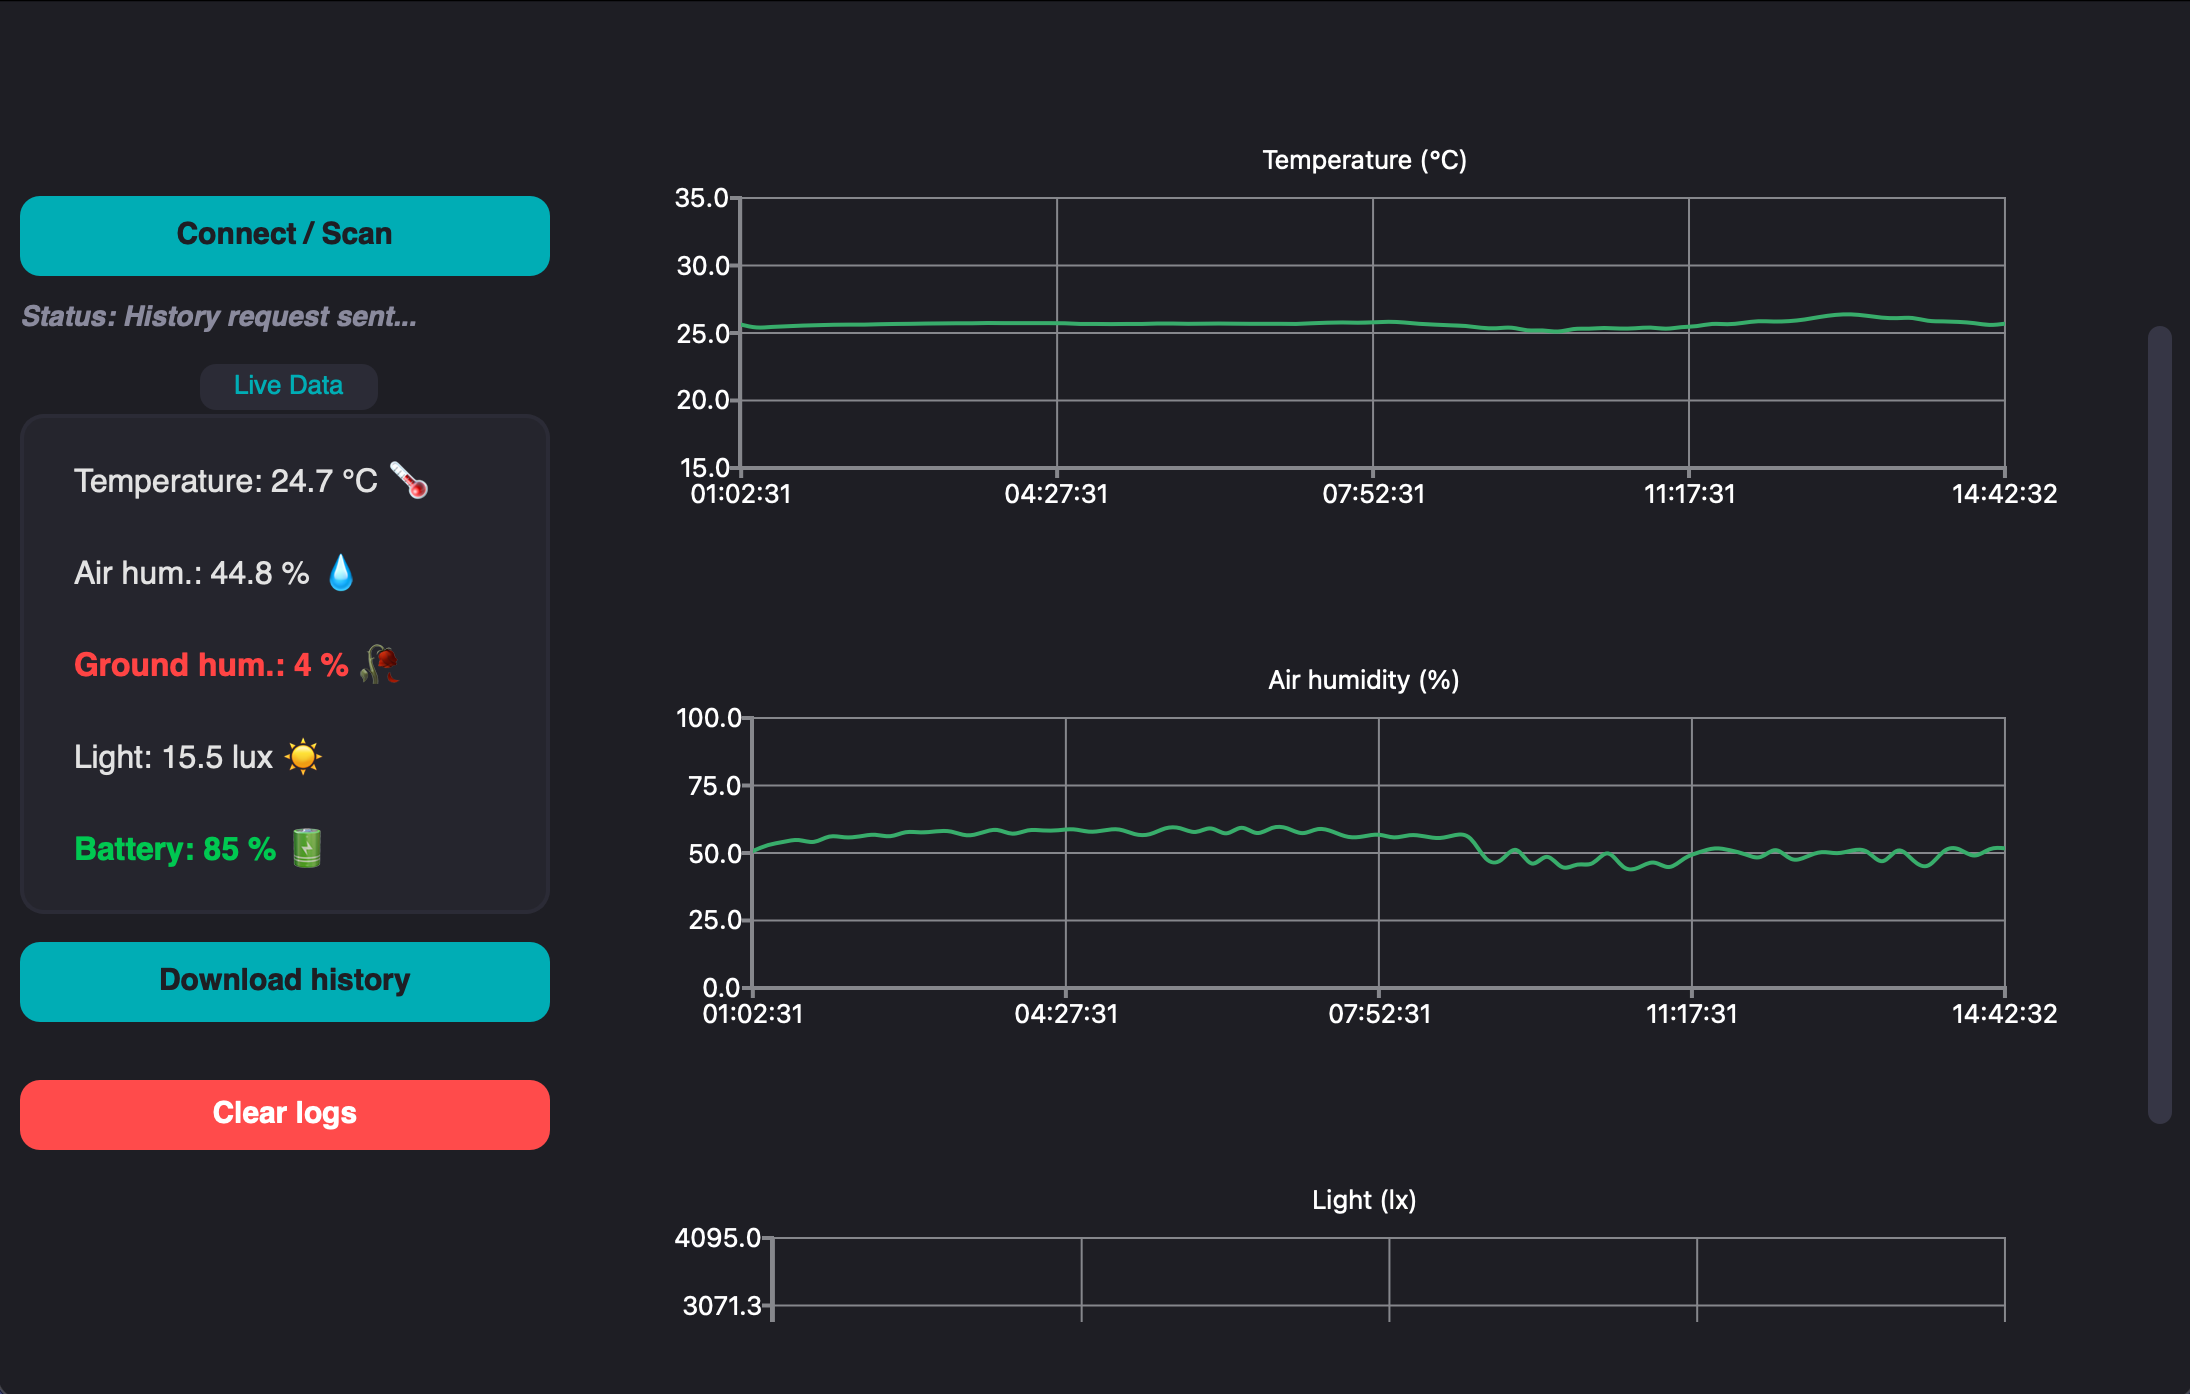
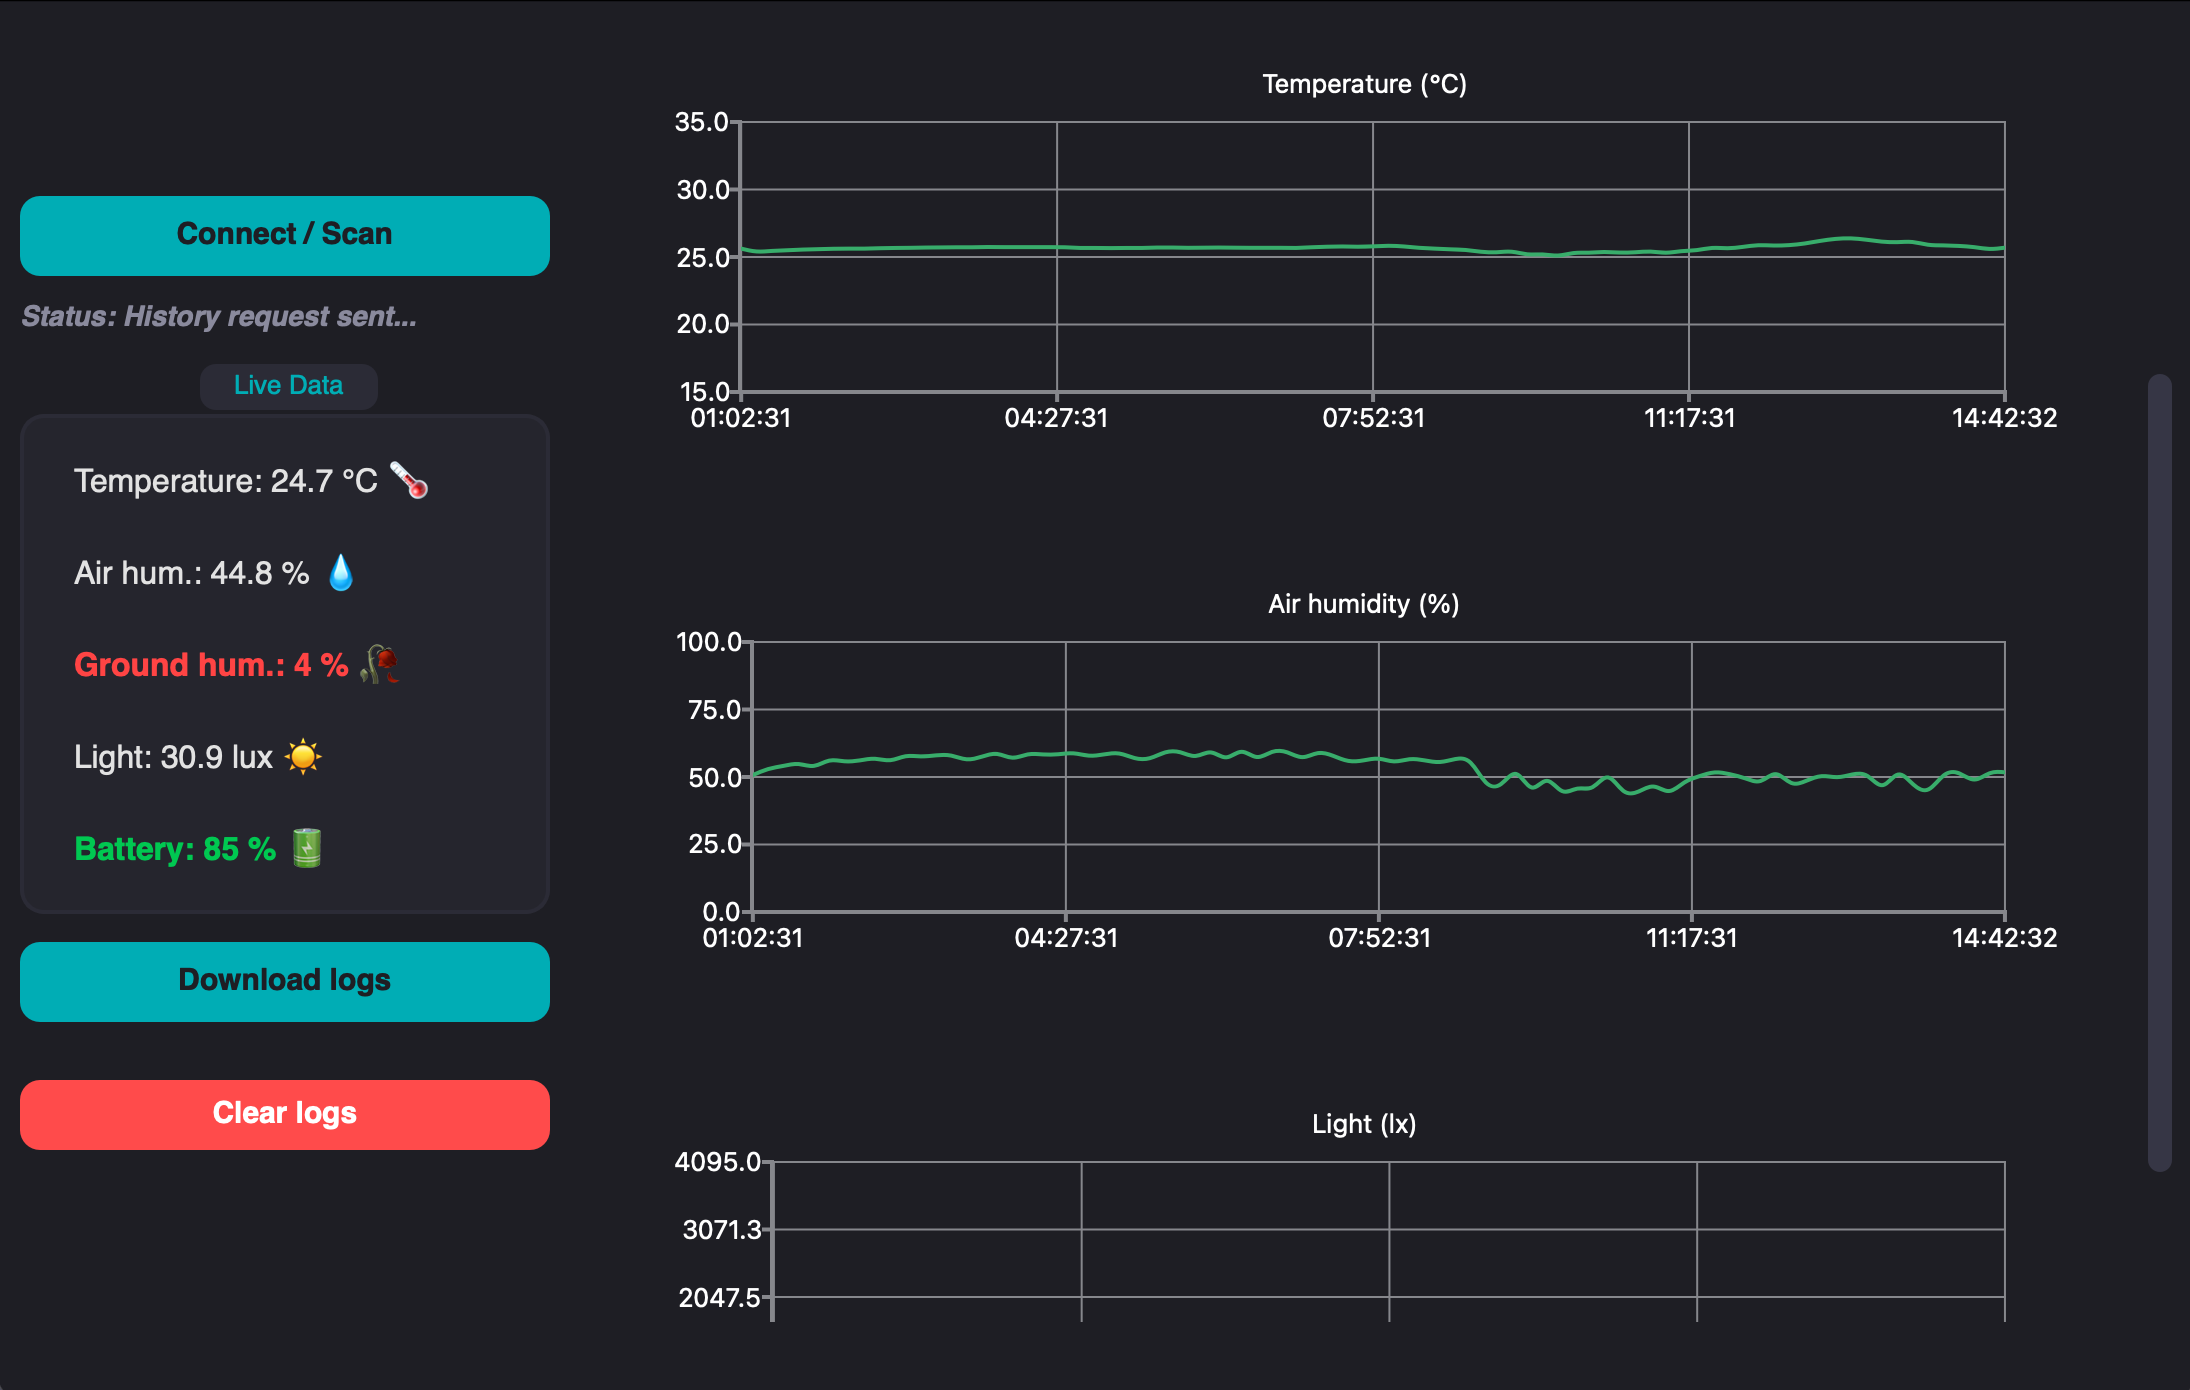
Update readme and qt gui photo

diff --git a/README.MD b/README.MD
@@ -8,7 +8,7 @@ Built with C++, the project consists of an ESP32-C6 based hardware node and a Qt
 The system features Bluetooth Low Energy communication, local data logging, and a gesture-activated OLED display.
 
 ## Key Features
-- **Real-Time Monitoring**: Tracks Soil Moisture, Ambient Temperature, Air Humidity, Light Intensity (LDR), and Battery Level.
+- **Real-Time Monitoring**: Tracks Soil Moisture, Ambient Temperature, Air Humidity, Light Intensity, and Battery Level.
 - **Gesture-Activated UI**: Uses a VL53L0X Time-of-Flight sensor to detect hand waves, waking up the OLED display for 10 seconds to conserve battery.
 - **Local Data Logging**: Stores historical data offline in flash memory using LittleFS when the client is disconnected.
 - **Qt6 Desktop Client**: PC dashboard featuring charts and historical data synchronization.
@@ -58,7 +58,7 @@ The device operates as a **BLE Peripheral**.
     2. Ensure you have the QtBluetooth and QtCharts modules installed.
     3. Build and run the project (Desktop target).
     4. Click "Connect", wait for the BLE discovery to find XIAO-C6-Kwiatek
-    5. Click "" to download historical data and read current values.
+    5. Click "Download logs" to download historical data and read current values.
 
 ## Images
 